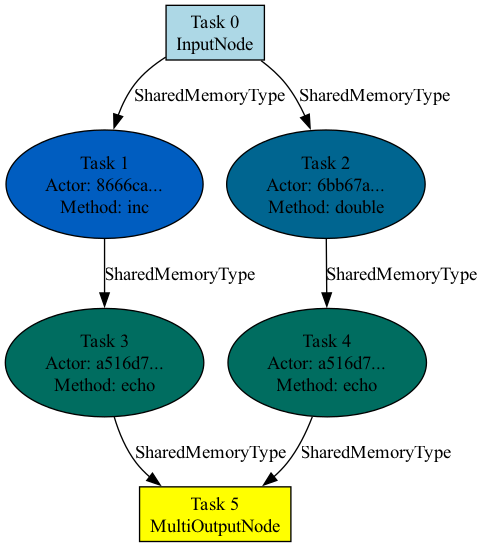
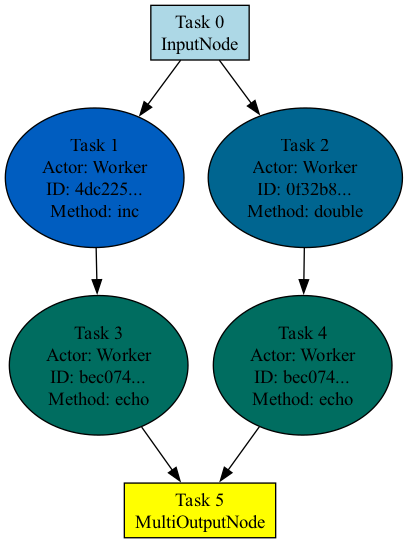
[core][cgraph] Only show type on visualize with `channel_details` (#50689)

Changed region(s): [[0.0, 0.0, 1.0, 1.0], [0.0, 0.5893, 0.0882, 0.7072]]

diff --git a/python/ray/dag/compiled_dag_node.py b/python/ray/dag/compiled_dag_node.py
@@ -2975,10 +2975,15 @@ class CompiledDAG:
             # Add the node to the graph with attributes
             dot.node(str(idx), label, shape=shape, style=style, fillcolor=fillcolor)
             channel_type_str = (
-                type(dag_node.type_hint).__name__
-                if dag_node.type_hint
-                else "UnknownType"
-            ) + "\n"
+                (
+                    type(dag_node.type_hint).__name__
+                    if dag_node.type_hint
+                    else "UnknownType"
+                )
+                + "\n"
+                if channel_details
+                else None
+            )
 
             # This logic is built on the assumption that there will only be multiple
             # output channels if the task has multiple returns
@@ -2986,8 +2991,9 @@ class CompiledDAG:
             if len(task.output_channels) == 1:
                 for downstream_node in task.dag_node._downstream_nodes:
                     downstream_idx = self.dag_node_to_idx[downstream_node]
-                    edge_label = channel_type_str
+                    edge_label = None
                     if channel_details:
+                        edge_label = channel_type_str
                         edge_label += self.get_channel_details(
                             task.output_channels[0],
                             (
@@ -3003,8 +3009,9 @@ class CompiledDAG:
                 for output_channel, downstream_idx in zip(
                     task.output_channels, task.output_node_idxs
                 ):
-                    edge_label = channel_type_str
+                    edge_label = None
                     if channel_details:
+                        edge_label = channel_type_str
                         edge_label += self.get_channel_details(
                             output_channel,
                             task.dag_node._get_actor_handle()._actor_id.hex(),

diff --git a/doc/source/ray-core/compiled-graph/visualization.rst b/doc/source/ray-core/compiled-graph/visualization.rst
@@ -40,15 +40,15 @@ on the graph.
     compiled_dag.visualize()
 
 By default, Ray generates a PNG image named ``compiled_graph.png`` and saves it in the current working directory.
-Note that this requires ``graphviz`` to be installed.
+Note that this requires you to install ``graphviz``.
 
-The visualization for the preceding code is shown below:
+The following is the visualization for the preceding code:
 
 .. image:: ../../images/compiled_graph.png
     :alt: Visualization of Graph Structure
     :align: center
 
-Note that tasks of the same actor are shown in the same color.
+Note that the visualization shows tasks of the same actor as the same color.
 
 .. _execution-schedule:
 
@@ -67,7 +67,7 @@ and run the following command:
     RAY_CGRAPH_VISUALIZE_SCHEDULE=1 python3 example.py
 
 When Ray executes ``experimental_compile``, it generates a PNG image named ``compiled_graph_schedule.png`` and
-saves it in the current working directory. The visualization for the preceding code is shown below:
+saves it in the current working directory. The following is the visualization for the preceding code:
 
 .. image:: ../../images/compiled_graph_schedule.png
     :alt: Visualization of Execution Schedule
